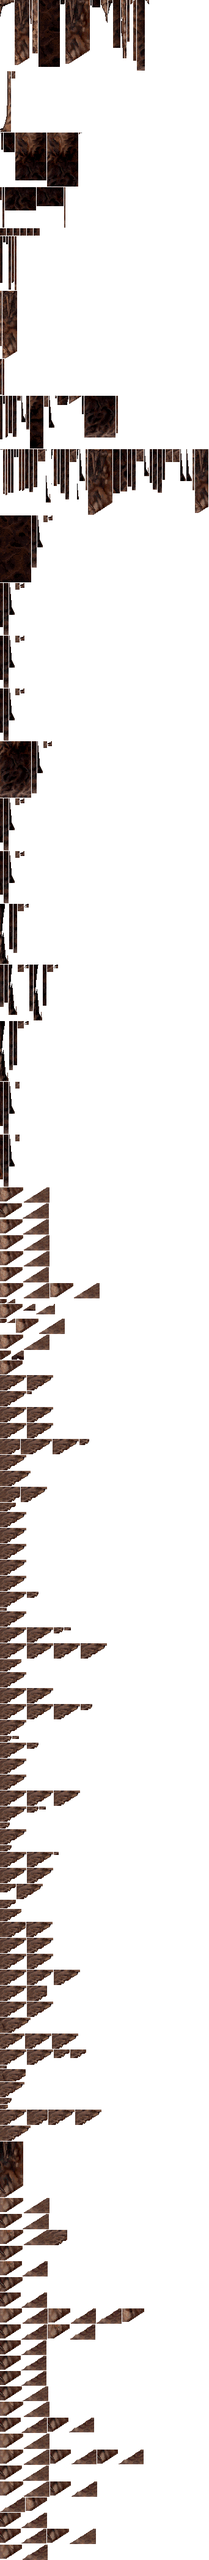
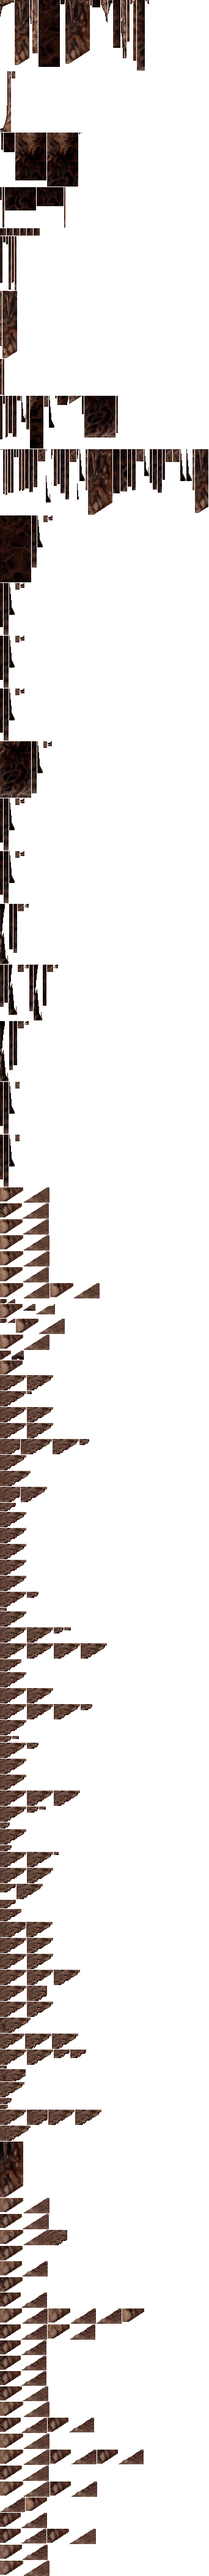
Blend approved floor joins in level 5 room 8

diff --git a/pop2/cavern_retouch.py b/pop2/cavern_retouch.py
@@ -88,7 +88,7 @@ def retouched_door_sprite(level, room, command, source):
 def retouched_sprite(room, command, source, *, level_number=3):
     approved = (room in (0, 1, 2, 3, 4, 5, 6, 7, 8, 9, 10, 11, 12, 13, 14, 15, 16, 18, 20, 21, 23, 24, 25, 26, 27, 29, 30, 31) if level_number == 3
                 else room in (0, 1, 2, 4, 5, 6, 8, 9, 10, 11, 12, 13, 14, 15, 16, 17, 18, 19, 20, 21, 22, 23, 24, 25, 26, 27, 28) if level_number == 4
-                else level_number == 5 and room in (0, 1, 3, 4, 5, 6, 8, 10, 12, 13, 14, 15, 16, 17, 18, 21, 22, 24))
+                else level_number == 5 and room in (0, 1, 3, 4, 5, 6, 7, 8, 10, 12, 13, 14, 15, 16, 17, 18, 21, 22, 24))
     if not approved or len(command) < 8 or command[7] != 4:
         return source
     key = (room, command[1], command[2], command[3], command[4])

diff --git a/tests/test_level5_cavern_retouch.py b/tests/test_level5_cavern_retouch.py
@@ -39,7 +39,7 @@ APPROVED = {
 class BundledLevelFiveArtworkTests(unittest.TestCase):
     def test_approved_scope_and_changed_source_guards(self):
         assets = retouch_assets(5)
-        self.assertEqual(len(assets), 86)
+        self.assertEqual(len(assets), 88)
         self.assertEqual({key[0] for key in assets}, (set(APPROVED) | right_tip_rooms(5) | floor_join_rooms(5)))
         for key, (record, image) in assets.items():
             room, shape, x, bottom, mode = key

diff --git a/docs/CAVERN_ARTWORK.md b/docs/CAVERN_ARTWORK.md
@@ -446,3 +446,4 @@ the separate `rendered/level3-room30-joins-v1/` reference.
[4 lines of base64/hex data omitted]
